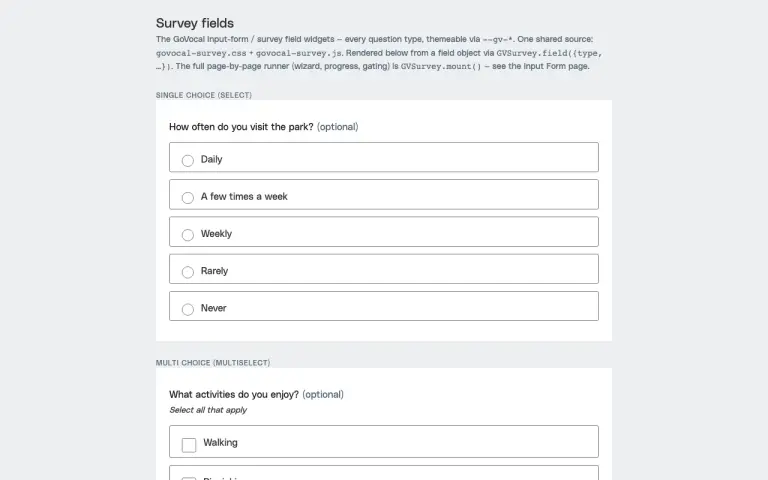
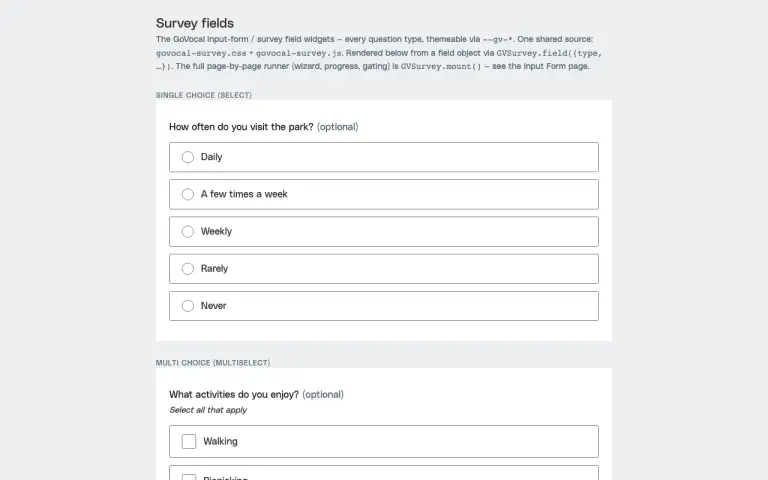
survey kit: sticky mobile footer, centred option cards, cascading ranking
- govocal-survey.css: mobile card uses fixed 100dvh height (not min-height) so
  .sv-body scrolls internally and the footer pins to the bottom of the screen.
- govocal-survey.css: option cards (radio + checkbox) centred vertically —
  equal 14px top/bottom padding + align-items:center (was 20/8 + flex-start).
- govocal-survey.js: ranking is now position-based — picking a rank moves the
  option to that slot and renumbers the whole list (1..N); drag reorder does the
  same, so ranking one item auto-orders the rest.

diff --git a/skills/govocal-ui/govocal-survey.css b/skills/govocal-ui/govocal-survey.css
@@ -37,7 +37,11 @@
     .sv-close svg { width: 22px; height: 22px; fill: currentColor; }
 
     .sv-body { flex: 1 1 auto; overflow-y: auto; padding: 30px 40px 36px; }
-    @media (max-width: 600px) { .sv-body { padding: 22px 18px 28px; } .sv-wrap { padding: 0; } .sv-card { min-height: 100vh; border-radius: 0; } }
+    /* Mobile: give the card a fixed viewport height (100dvh, so it tracks the real
+       chrome-adjusted area) instead of min-height. That makes .sv-body the internal
+       scroller (flex:1 1 auto + overflow-y:auto) and pins the footer to the bottom
+       of the screen — matching the real GoVocal runner. */
+    @media (max-width: 600px) { .sv-body { padding: 22px 18px 28px; } .sv-wrap { padding: 0; } .sv-card { height: 100vh; height: 100dvh; min-height: 0; border-radius: 0; } }
 
     /* Page heading + description */
     .sv-page__title { font-size: var(--gv-fs-xxl); font-weight: 700; line-height: 1.25; color: var(--gv-tenant-primary); margin: 0 0 14px; word-break: break-word; }
@@ -310,7 +314,7 @@
        grey-400 (#CBCBCB) the base rule shipped. The inner .gv-radio circle already uses
        --gv-border-dark, so no change needed there. Real padding measured 20px 20px 8px
        (was 16px 18px — slightly tighter). Append-only override so every consumer updates. */
-    .sv-optcard { border-color: var(--gv-border-dark); padding: 20px 20px 8px; }
+    .sv-optcard { border-color: var(--gv-border-dark); padding: 14px 20px; }
 
     /* ── Bordered field-box fidelity (shared-fix option-card-border, 87/93) ──────
        The same dark control grey rgb(118,118,118) = #767676 (--gv-border-dark /
@@ -326,14 +330,13 @@
     .sv-rank__select,
     .sv-imgcard { border-color: var(--gv-border-dark); }
 
-    /* ── Option-card vertical-alignment fidelity (shared-fix option-card-padding, 88/93) ──
-       The real option box (div.sc-eNCGxt) pads 20px 20px 8px — generous top/side,
-       tighter bottom — which seats the radio toward the TOP of the row rather than
-       vertically centred. The base rule shipped align-items: center (control centred);
-       with our matching 20px/8px asymmetric padding already in place (rule above), we
-       flip the cross-axis to flex-start so the radio aligns to the top edge like the
-       runner. Padding + gap unchanged. Append-only override so every consumer updates. */
-    .sv-optcard { align-items: flex-start; }
+    /* ── Option-card vertical alignment (radio + checkbox option cards) ───────────
+       Earlier we matched the real box's asymmetric 20px/8px padding + align-items:
+       flex-start, which seated the control toward the TOP of the row. Per design
+       review that read as misaligned (extra space below the control), so we centre
+       it: equal 14px top/bottom padding (rule above) + align-items: center. Applies
+       to every .sv-optcard, so select AND multiselect cards both centre. */
+    .sv-optcard { align-items: center; }
 
     /* ── Question-label weight fidelity (shared-fix survey-question-label-weight) ──
        Real survey question label (span.sc-uJiQo.diOXeU 'Your question') = 16px /

diff --git a/skills/govocal-ui/govocal-survey.js b/skills/govocal-ui/govocal-survey.js
@@ -255,10 +255,26 @@
         wrap.querySelectorAll('label').forEach(function (l) { l.classList.toggle('on', +l.dataset.val <= v); });
       }
       if (e.target.classList.contains('sv-rank__select')) {
-        var sel = e.target, val = sel.value, list = sel.closest('.sv-rank');
-        if (val) { list.querySelectorAll('.sv-rank__select').forEach(function (o) { if (o !== sel && o.value === val) o.value = ''; }); }
+        var sel = e.target, val = +sel.value, list = sel.closest('.sv-rank'), li = sel.closest('li');
+        if (val) {
+          // Picking a rank moves that option to the chosen slot, then renumbers the
+          // whole list — ranking one item auto-orders the rest (1..N by position).
+          var others = [].slice.call(list.children).filter(function (n) { return n !== li; });
+          var ref = others[val - 1];
+          if (ref) list.insertBefore(li, ref); else list.appendChild(li);
+          rankRenumber(list);
+        }
       }
     });
+
+    // Set every rank <select> to its 1-based position in the list. Called after a drag
+    // reorder or an explicit rank pick so position == rank, with no gaps or duplicates.
+    function rankRenumber(list) {
+      [].slice.call(list.children).forEach(function (row, i) {
+        var s = row.querySelector('.sv-rank__select');
+        if (s) s.value = String(i + 1);
+      });
+    }
 
     var dragEl = null;
     bodyEl.addEventListener('dragstart', function (e) { var li = e.target.closest('.sv-rank li'); if (li) { dragEl = li; e.dataTransfer.effectAllowed = 'move'; } });
@@ -270,6 +286,7 @@
         e.preventDefault(); li.classList.remove('drag-over');
         var list = li.parentNode, items = [].slice.call(list.children);
         if (items.indexOf(dragEl) < items.indexOf(li)) li.after(dragEl); else li.before(dragEl);
+        rankRenumber(list);
       }
     });
     bodyEl.addEventListener('dragend', function () { dragEl = null; bodyEl.querySelectorAll('.drag-over').forEach(function (n) { n.classList.remove('drag-over'); }); });
